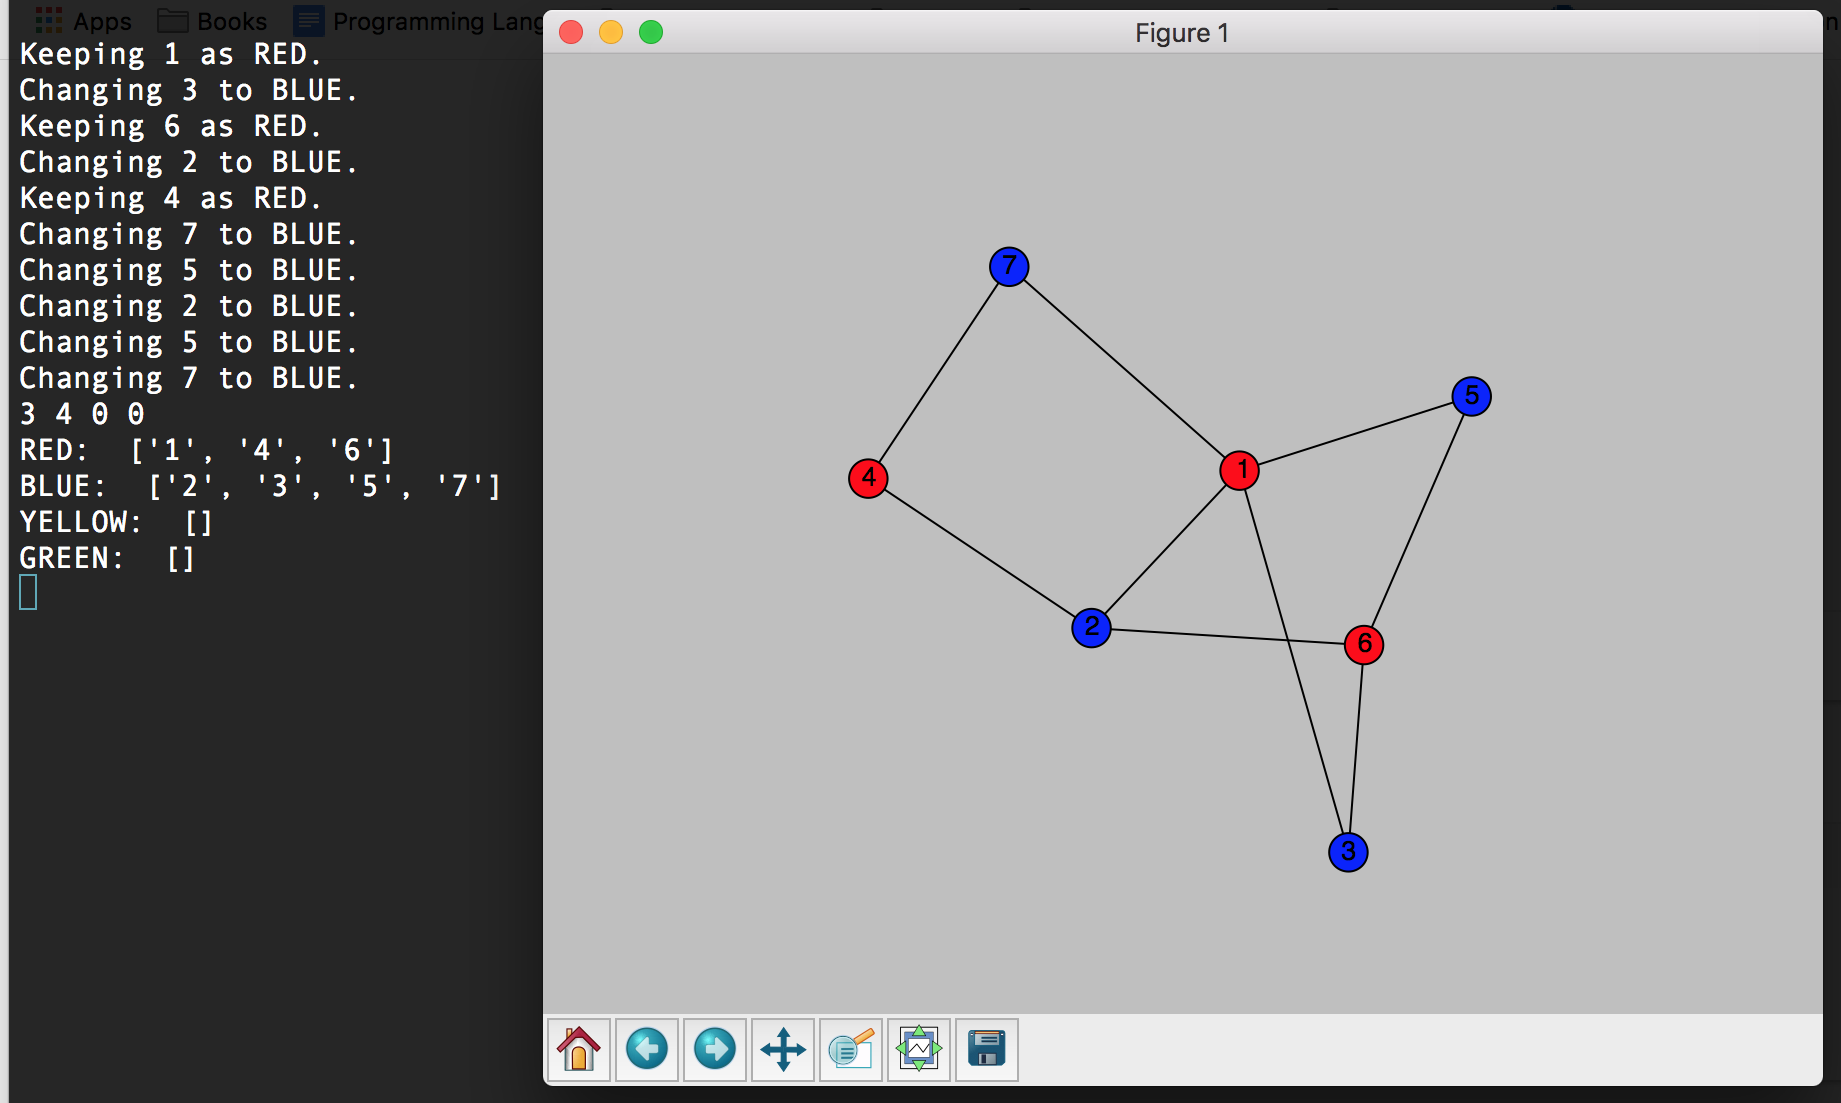
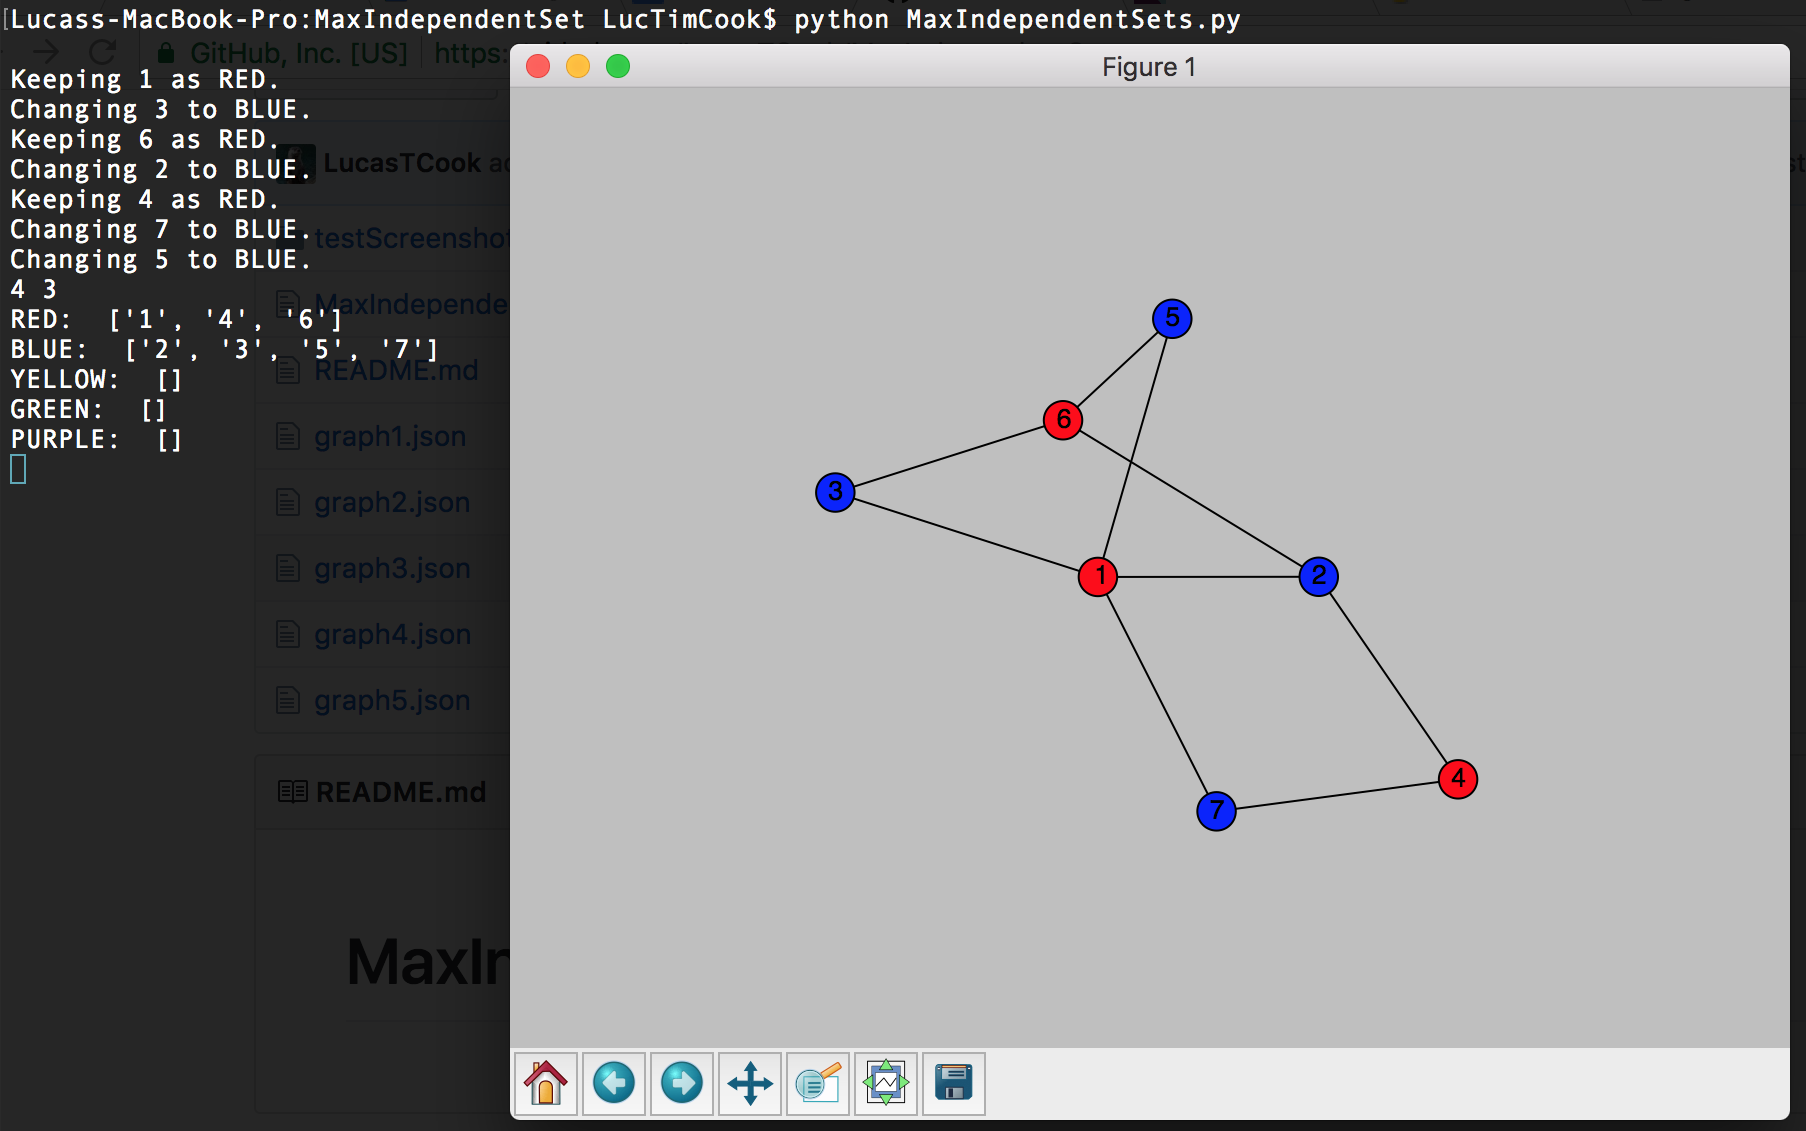
Final

diff --git a/MaxIndependentSets.py b/MaxIndependentSets.py
@@ -74,9 +74,11 @@ def ColorGraph(G):
 		print len(node_list_red),
 		print len(node_list_blue),
 
-	print len(node_list_yellow),
-	print len(node_list_green),
-	print len(node_list_purple)
+	if len(node_list_yellow) != 0: print len(node_list_yellow),
+	if len(node_list_green) != 0: print len(node_list_green),
+	if len(node_list_purple) != 0: print len(node_list_purple)
+
+	print ""
 
 	print "RED: ",
 	print node_list_red
@@ -93,7 +95,7 @@ def ColorGraph(G):
 	
 	
 def openGraph():
-	with open("graph3.json") as f:
+	with open("graph7.json") as f:
         	js_graph = json.load(f)
 	return json_graph.node_link_graph(js_graph, False)
 
